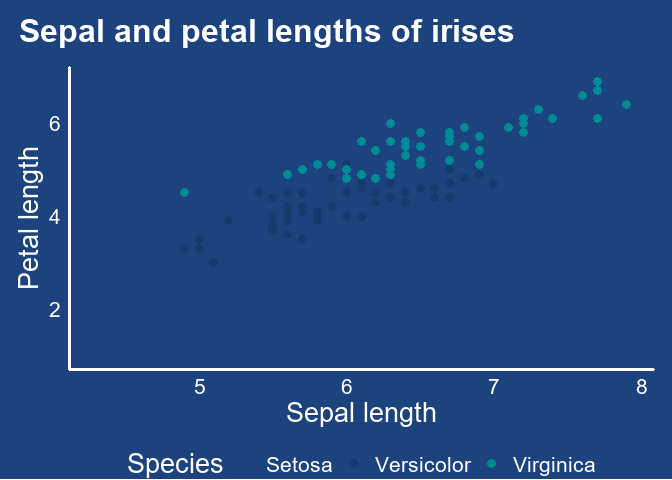
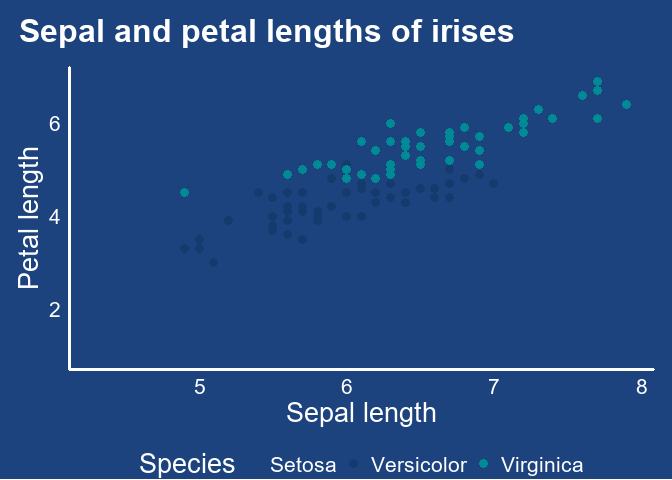
Reorder primary colours

Changed region(s): [[0.5312, 0.9375, 0.9062, 1.0], [0.1875, 0.9375, 0.3438, 1.0], [0.375, 0.9375, 0.5, 1.0]]

diff --git a/README.md b/README.md
@@ -185,7 +185,7 @@ ggplot(
   scale_fill_manual(guide='none',values=colorspace::lighten(strayr::palette_state_name_2016,.2)) +
   labs(title="Australia's States and Territories")+
   theme_dohac_map(base_colour = "blue", base_size = 10)
-#> Reading state2021 file found in C:\Users\SAMUEL~1\AppData\Local\Temp\RtmpKqJaX8
+#> Reading state2021 file found in C:\Users\SAMUEL~1\AppData\Local\Temp\RtmpwHqFVR
 ```
 
 <img src="man/figures/README-map_blue-1.png" width="80%" />
